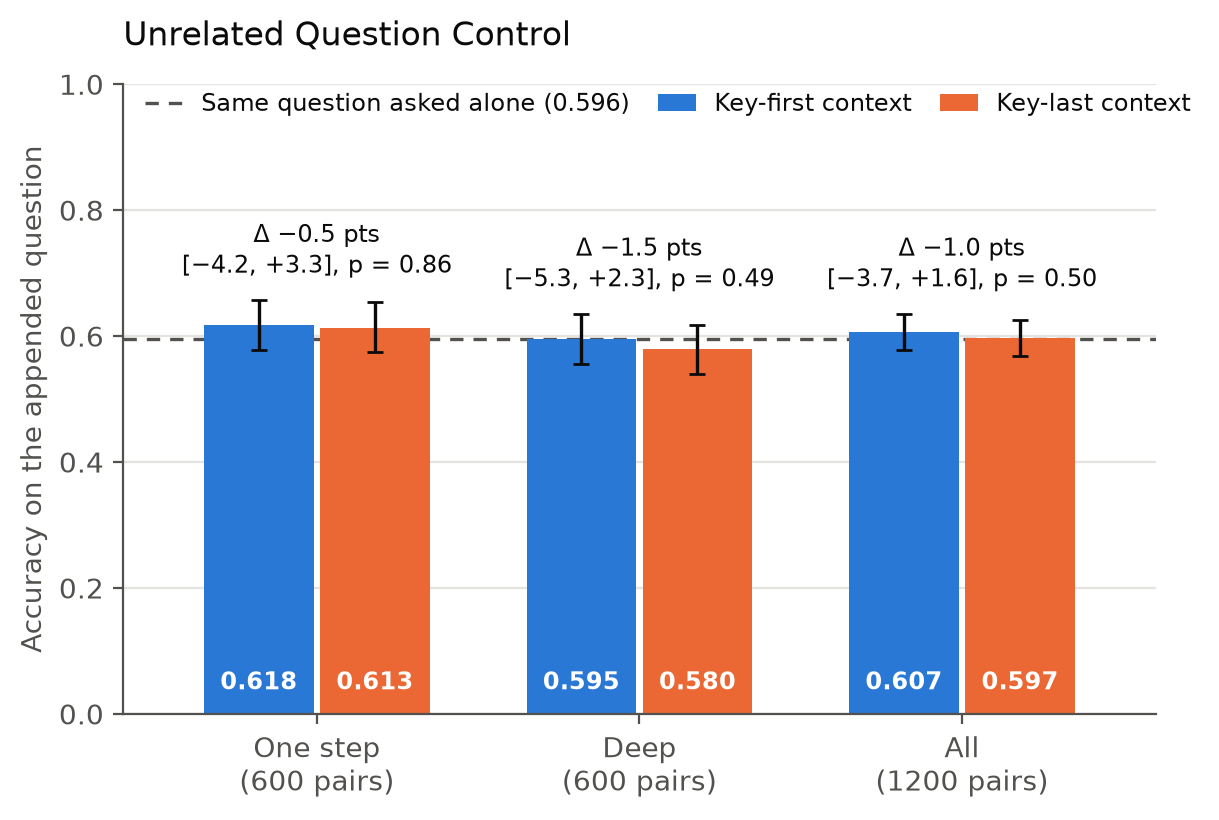
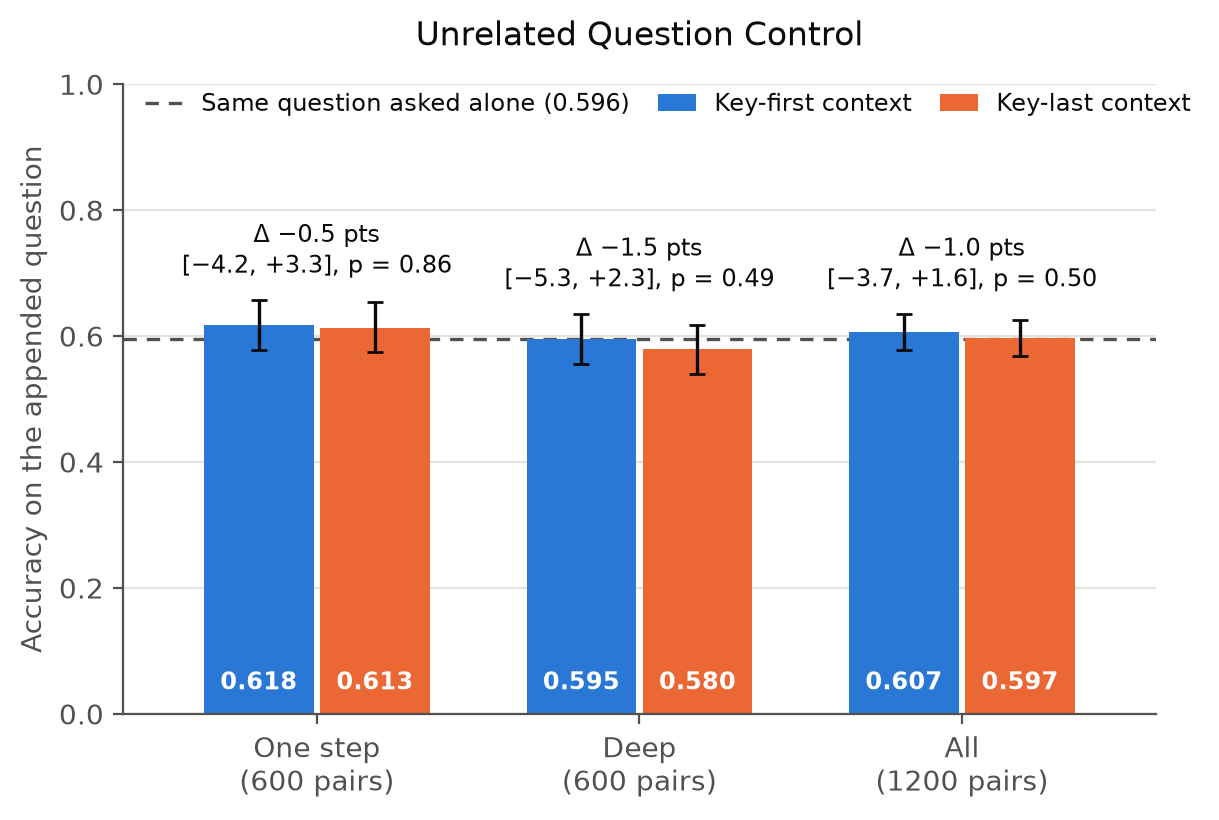
latekey ood_probe figure: center the title

Changed region(s): [[0.0935, 0.0305, 0.717, 0.061]]

diff --git a/latekey/ood_probe/fig_ood.py b/latekey/ood_probe/fig_ood.py
@@ -95,7 +95,7 @@ def main():
         ax.spines[sp].set_visible(False)
     ax.legend(loc="upper left", frameon=False, ncol=3, fontsize=8.5, bbox_to_anchor=(0, 1.02),
               handlelength=1.6, columnspacing=1.2)
-    ax.set_title("Unrelated Question Control", fontsize=12, color=INK, loc="left", pad=14)
+    ax.set_title("Unrelated Question Control", fontsize=12, color=INK, loc="center", pad=14)
     fig.tight_layout()
     out = os.path.join(LK, "results", "figs", "ood_probe")
     os.makedirs(os.path.dirname(out), exist_ok=True)
